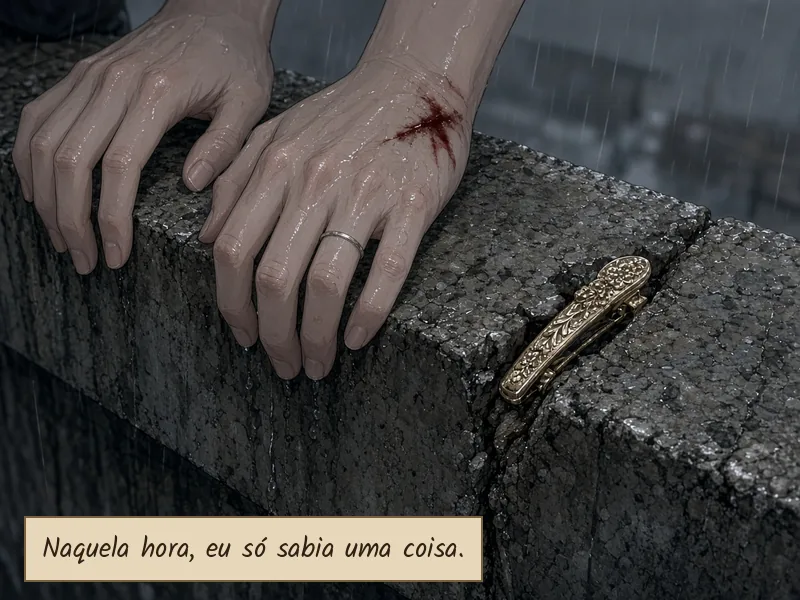
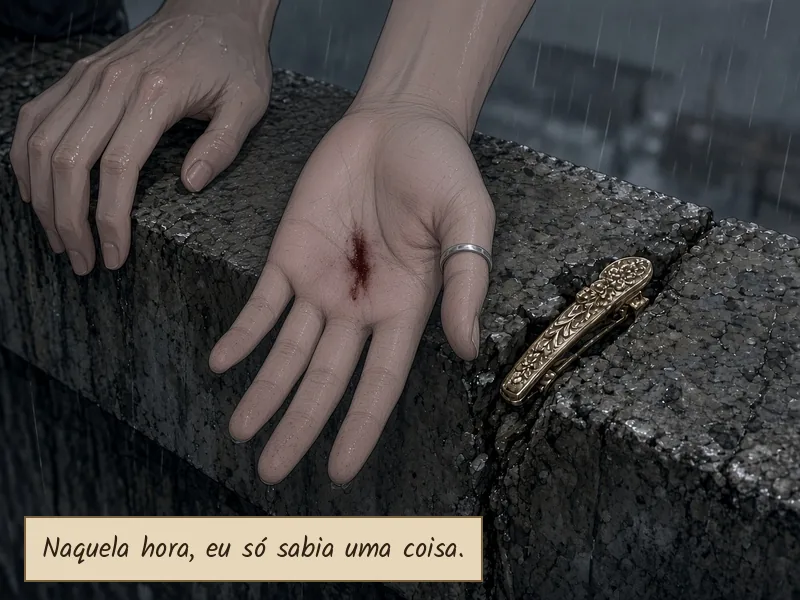
Webtoon Cobertura: corrige P17/P45 do Ep. 1 e adiciona capa do Ep. 2

diff --git a/src/components/refugio/story-reader.tsx b/src/components/refugio/story-reader.tsx
@@ -661,7 +661,7 @@ export function StoryList() {
           style={{ display: "flex", gap: 16, alignItems: "center", margin: "20px 0", padding: 12, borderRadius: 18, background: "#0c0e14", color: "#f3e9d8", border: "1px solid rgba(255,255,255,.12)" }}
         >
           <a href="/webtoon/cobertura/2" style={{ flexShrink: 0 }}>
-            <img src="/webtoon/cobertura/ep1/capa.webp" alt="" width={120} height={90} loading="lazy" style={{ width: 120, height: 90, objectFit: "cover", borderRadius: 12, display: "block" }} />
+            <img src="/webtoon/cobertura/ep2/capa.webp" alt="Capa do Episódio 2: A Sala" width={120} height={90} loading="lazy" style={{ width: 120, height: 90, objectFit: "cover", borderRadius: 12, display: "block" }} />
           </a>
           <span>
             <span style={{ display: "block", fontSize: 11, letterSpacing: ".18em", textTransform: "uppercase", opacity: 0.65 }}>Novo episódio · Webtoon · 16+</span>
